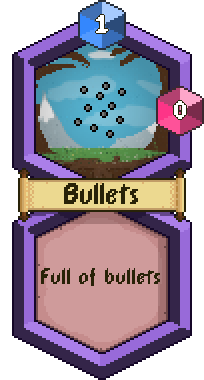
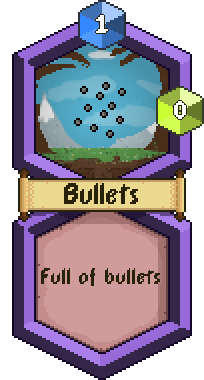
post testing update

Changed region(s): [[0.7647, 0.2316, 1.0, 0.3763]]

diff --git a/test-client.js b/test-client.js
@@ -263,7 +263,7 @@ var Tile = (initObject) => {
 
 
         // Changing sprites if biome changed
-        if ((self.biome != self.lastBiome && !self.dead) || (self.lastBiome != 'dead' && self.dead)) {
+        if (((self.biome != self.lastBiome && !self.dead) || (self.lastBiome != 'dead' && self.dead)) && false) {
             self.sprite = textureManager.getSprite('tiles', BIOME_TEXTROWS[self.dead ? 'dead' : self.biome] * 4 + (self.textureId + self.animationFrame) % 4)
             self.resizedSprite = null;
             textureManager.resizeSprite(self.sprite, self.hexRadius * 2, self.hexRadius * 2 / self.sprite.width * self.sprite.height, (result) => {
@@ -276,7 +276,7 @@ var Tile = (initObject) => {
             }
         }
 
-        if (self.resizedSprite && Math.abs(self.renderR - self.hexRadius) < 2 && self.animationFrame == 0) {
+        if ((self.resizedSprite && Math.abs(self.renderR - self.hexRadius) < 2 && self.animationFrame == 0) && false) {
             var t_height = self.resizedSprite.height;
             ctx.drawImage(self.resizedSprite, colBox.x - self.resizedSprite.width / 2, colBox.y - self.resizedSprite.height / 2);
         } else {
@@ -693,8 +693,8 @@ var MinimapUI = (initObject) => {
             var middleX = self.x + 0.5 * self.width;
             var middleY = self.y + 0.5 * self.height;
 
-            var horOverhang = 4;
-            var verOverhang = 4;
+            var horOverhang = 2;
+            var verOverhang = 2;
 
             var tileWidth = horOverhang * 4;
             var tileHeight = verOverhang * 4;
@@ -713,11 +713,15 @@ var MinimapUI = (initObject) => {
                 for (player in client.handler.objects['PLAYER']) {
                     var boy = client.handler.objects['PLAYER'][player];
 
-                    if (tile.tx == boy.tile.tx && tile.ty == boy.tile.ty) {
-                        isPlayer = true;
+                    if (boy && tile && client.clientObject) {
+                        if (boy.tile) {
+                            if (tile.tx == boy.tile.tx && tile.ty == boy.tile.ty) {
+                                isPlayer = true;
 
-                        if (tile.tx == client.clientObject.tile.tx && tile.ty == client.clientObject.tile.ty) {
-                            isClient = true;
+                                if (tile.tx == client.clientObject.tile.tx && tile.ty == client.clientObject.tile.ty) {
+                                    isClient = true;
+                                }
+                            }
                         }
                     }
                 }

diff --git a/test-server.js b/test-server.js
@@ -32,14 +32,14 @@ cards.forEach(card => {
 ////// GLOBAL CONSTANTS //////
 
 var TILE_WIDTH = 60;
-var WORLD_LAYERS = 5;
+var WORLD_LAYERS = 8;
 var BOX_SIZE = 2;
 
 var ROUNDS_PER_DROP = 3;
 
 var WORLD_CLIFFSNUMBER = 1;
 
-var MAX_CARDS_IN_FIELD = 24;
+var MAX_CARDS_IN_FIELD = 48;
 
 var CHARACTERS = [
     'Bob',
@@ -209,6 +209,7 @@ var Player = (initObject = {}) => {
             },
             movingPrice: 0,
             stats: {},
+            buffs: [],
             playing: false,
             ...defs
         })
@@ -463,7 +464,7 @@ var Player = (initObject = {}) => {
                                                     }
                                                 }
 
-                                                self.deltaValue('energy', res - deltaEnergy);
+                                                self.deltaValue('energy', res + deltaEnergy);
                                                 removeEnergy = false;
                                                 alertClient(server, `${self.name} rolled: ${rolls}`);
                                                 break;
@@ -1571,7 +1572,7 @@ var GameStep = (playerQueue, deck) => {
 
                         self.currentPlayer.yourRound();
 
-                        self.currentTimer = SpoolTimer(60000, () => {
+                        self.currentTimer = SpoolTimer(20000 + 5000 * self.roundNumber, () => {
                             self.finishStep(self.currentPlayer.id);
                         })
                         self.sendTimer()
@@ -1643,6 +1644,9 @@ var GameStep = (playerQueue, deck) => {
             var box = Box({
                 cards: temp
             })
+
+            console.log(tiles[i].tx, tiles[i].ty, tiles[i].dead)
+
             server.handler.add(box);
             tiles[i].add(box.id);
         }

diff --git a/cardgenerator/draw.py b/cardgenerator/draw.py
@@ -291,11 +291,11 @@ def render_stack_of_cards(json, items_tiles, multiplier):
     item_tile_size = (32, 32)
     rendered_item_size = [i*multiplier for i in (32, 32)]
     left_crystal_img = pygame.image.load(
-        "crystals/crystals/classic/crystal75.png")
+        "crystals/crystals/classic/crystal335.png")
     top_crystal_img = pygame.image.load(
         "crystals/crystals/classic/crystal215.png")
     right_crystal_img = pygame.image.load(
-        "crystals/crystals/classic/crystal335.png")
+        "crystals/crystals/classic/crystal75.png")
     crystal_number_offset = (1, 0)
     for card in json["cards"]:
         x, y = ((card["cardTileIndex"] % items_tiles_width) * total_card_size[0],
@@ -402,7 +402,6 @@ def render_stack_of_cards(json, items_tiles, multiplier):
 
     export_surface_area(surface, (0, 0), (width, height),
                         "./../textures/full_stack.png")
-
 
 
 rgb_to_hsv = np.vectorize(colorsys.rgb_to_hsv)
